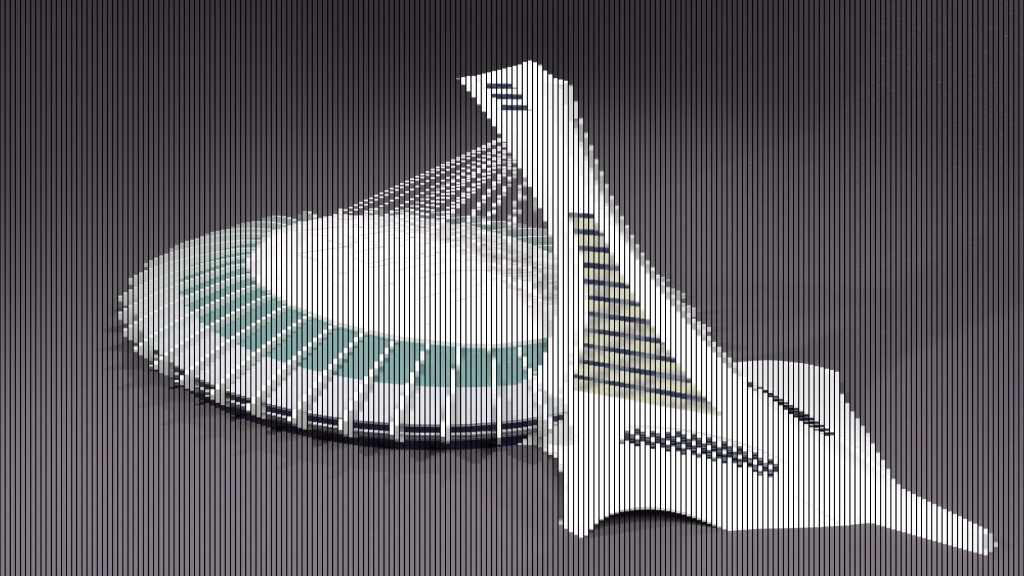
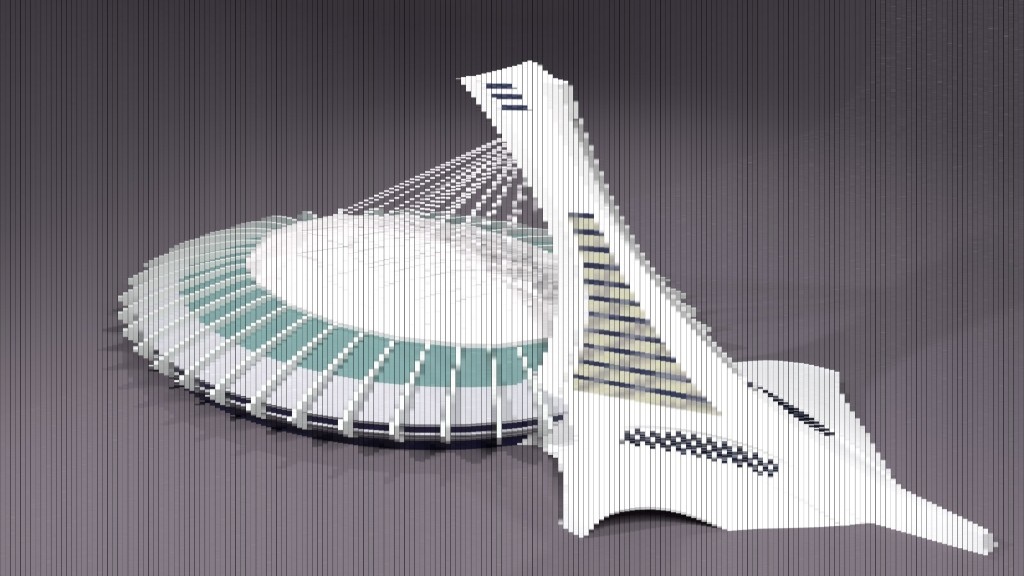
Trusted partners: responsive images, mobile fixes, desktop/mobile assets
- Picture element: 1280×720 mobile image, 4K desktop image
- Mobile: no AnimatePresence (stops background effect when switching partners)
- Touch: touch-action manipulation, no scale on tab buttons
- Background layer: isolate + contain:paint to avoid repaint on partner switch
- Partner list: better contrast on mobile (text-white/80)
- Replace desktop + mobile halftone assets with final versions

Made-with: Cursor

Changed region(s): [[0.0, 0.0, 1.0, 1.0]]

diff --git a/src/components/TrustedPartnersSection.tsx b/src/components/TrustedPartnersSection.tsx
@@ -1,7 +1,21 @@
-import { useState } from "react";
+import { useState, useEffect } from "react";
 import { useTranslation } from "react-i18next";
 import { motion, AnimatePresence } from "framer-motion";
 import { ScrollReveal } from "./ScrollReveal";
+
+const MOBILE_BREAKPOINT = 1024;
+
+function useIsMobile() {
+  const [isMobile, setIsMobile] = useState(false);
+  useEffect(() => {
+    const mq = window.matchMedia(`(max-width: ${MOBILE_BREAKPOINT - 1}px)`);
+    setIsMobile(mq.matches);
+    const fn = () => setIsMobile(mq.matches);
+    mq.addEventListener("change", fn);
+    return () => mq.removeEventListener("change", fn);
+  }, []);
+  return isMobile;
+}
 
 const partnerLogos = [
   "Groupe Velora",
@@ -14,6 +28,7 @@ const partnerLogos = [
 
 export function TrustedPartnersSection() {
   const { t } = useTranslation();
+  const isMobile = useIsMobile();
   const partners = t("trustedPartners.partners", { returnObjects: true }) as {
     name: string;
     quote: string;
@@ -24,24 +39,34 @@ export function TrustedPartnersSection() {
   const active = partners[activeIndex];
 
   return (
-    <section className="relative py-24 lg:py-32 px-6 lg:px-16 overflow-hidden">
-      {/* Halftone stadium (Montreal Olympic) — 4K 3840×2160 */}
-      <div className="absolute inset-0 overflow-hidden" aria-hidden>
-        <img
-          src="/images/trusted-partners-halftone.png"
-          alt=""
-          width={3840}
-          height={2160}
-          className="absolute inset-0 w-full h-full object-cover object-[center_42%]"
-          fetchPriority="high"
-          decoding="async"
+    <section className="relative py-24 lg:py-32 px-6 lg:px-16 overflow-hidden isolate">
+      {/* Background layer: isolated so switching partners doesn’t repaint or change it */}
+      <div
+        className="absolute inset-0 z-0 overflow-hidden [transform:translateZ(0)] [contain:paint]"
+        aria-hidden
+      >
+        {/* Mobile: 1280×720 sharp; desktop: 4K. Add trusted-partners-halftone-mobile.png (1280×720) for crisp mobile. */}
+        <picture>
+          <source
+            media="(max-width: 1023px)"
+            srcSet="/images/trusted-partners-halftone-mobile.png"
+          />
+          <img
+            src="/images/trusted-partners-halftone.png"
+            alt=""
+            width={3840}
+            height={2160}
+            className="absolute inset-0 w-full h-full object-cover object-[center_42%] [transform:translateZ(0)]"
+            fetchPriority="high"
+            decoding="async"
+            sizes="100vw"
+          />
+        </picture>
+        <div
+          className="absolute inset-0 bg-velora-darker/35 pointer-events-none"
+          aria-hidden
         />
       </div>
-      {/* Overlay: same dark look in light and dark mode for this section */}
-      <div
-        className="absolute inset-0 bg-velora-darker/35 pointer-events-none"
-        aria-hidden
-      />
       <div className="relative z-10 max-w-[90rem] mx-auto">
         <div className="flex flex-col sm:flex-row sm:items-start sm:justify-between gap-6 mb-16 -mt-4">
           <ScrollReveal>
@@ -72,10 +97,11 @@ export function TrustedPartnersSection() {
                 <button
                   key={p.name}
                   onClick={() => setActiveIndex(i)}
-                  className={`font-sans font-bold text-xl lg:text-2xl text-left transition-colors ${
+                  type="button"
+                  className={`font-sans font-bold text-xl lg:text-2xl text-left transition-colors [touch-action:manipulation] [text-shadow:0_1px_2px_rgba(0,0,0,.4)] ${
                     activeIndex === i
                       ? "text-white"
-                      : "text-white/40 hover:text-white/60"
+                      : "text-white/80 sm:text-white/70 lg:text-white/40 hover:text-white/90 lg:hover:text-white/60"
                   }`}
                 >
                   {p.name}
@@ -93,9 +119,7 @@ export function TrustedPartnersSection() {
                 <motion.button
                   key={p.name}
                   onClick={() => setActiveIndex(i)}
-                  whileHover={{ scale: 1.03 }}
-                  whileTap={{ scale: 0.98 }}
-                  className={`font-sans text-sm px-4 py-2 rounded-full transition-all ${
+                  className={`font-sans text-sm px-4 py-2 rounded-full transition-all [touch-action:manipulation] ${
                       activeIndex === i
                         ? "bg-white text-neutral-900"
                         : "text-white/60 hover:text-white/90 hover:bg-white/10"
@@ -106,15 +130,8 @@ export function TrustedPartnersSection() {
                 ))}
               </div>
 
-              <AnimatePresence mode="wait">
-                <motion.div
-                  key={activeIndex}
-                  initial={{ opacity: 0, y: 8 }}
-                  animate={{ opacity: 1, y: 0 }}
-                  exit={{ opacity: 0, y: -8 }}
-                  transition={{ duration: 0.2 }}
-                  className="flex-1 flex flex-col justify-center"
-                >
+              {isMobile ? (
+                <div key={activeIndex} className="flex-1 flex flex-col justify-center">
                   <blockquote className="font-sans text-xl lg:text-2xl text-white leading-relaxed mb-8">
                     « {active.quote} »
                   </blockquote>
@@ -126,8 +143,31 @@ export function TrustedPartnersSection() {
                       {active.role}
                     </p>
                   </footer>
-                </motion.div>
-              </AnimatePresence>
+                </div>
+              ) : (
+                <AnimatePresence mode="wait">
+                  <motion.div
+                    key={activeIndex}
+                    initial={{ opacity: 0, y: 8 }}
+                    animate={{ opacity: 1, y: 0 }}
+                    exit={{ opacity: 0, y: -8 }}
+                    transition={{ duration: 0.2 }}
+                    className="flex-1 flex flex-col justify-center"
+                  >
+                    <blockquote className="font-sans text-xl lg:text-2xl text-white leading-relaxed mb-8">
+                      « {active.quote} »
+                    </blockquote>
+                    <footer>
+                      <cite className="font-sans font-bold text-white not-italic block">
+                        {active.author}
+                      </cite>
+                      <p className="font-sans text-sm text-white/60 mt-1">
+                        {active.role}
+                      </p>
+                    </footer>
+                  </motion.div>
+                </AnimatePresence>
+              )}
             </div>
           </ScrollReveal>
         </div>
